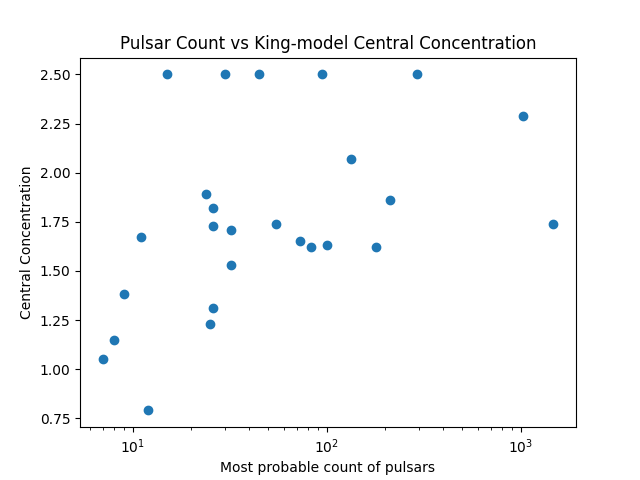
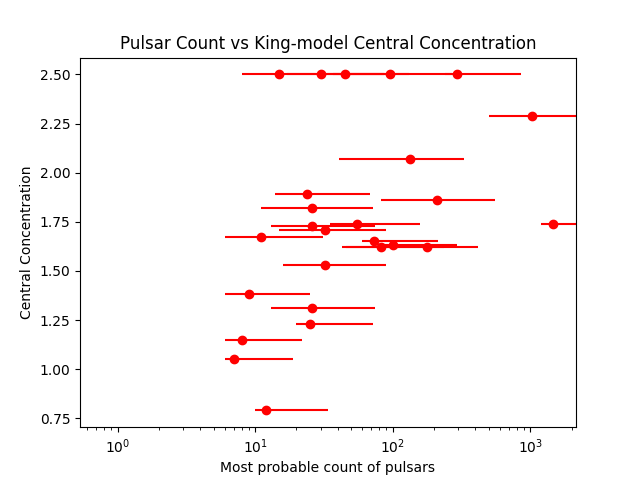
added confidence interval to property plots

diff --git a/readClusterData.py b/readClusterData.py
@@ -75,13 +75,19 @@ for valueName, title, yLable in GENERATE_PLOTS:
     plt.clf()
     xValues = []
     yValues = []
+    xErrorMin = []
+    xErrorMax = []
     for clusterName in clusterDic.keys():
         xValues.append(clusterDic[clusterName]["probableCount"])
         yValues.append(clusterDic[clusterName][valueName])
-    plt.scatter(xValues, yValues)
+        xErrorMin.append(clusterDic[clusterName]["95min"])
+        xErrorMax.append(clusterDic[clusterName]["95max"])
+    xError = [xErrorMin, xErrorMax]
+    #plt.scatter(xValues, yValues)
     plt.xscale("log")
     #plt.yscale("log")
     plt.title(title)
     plt.xlabel("Most probable count of pulsars")
     plt.ylabel(yLable)
+    plt.errorbar(xValues, yValues, xerr=xError, fmt='or', capsize=0)
     plt.savefig(path.join(".","plots","properties",f"{valueName}.png"))
